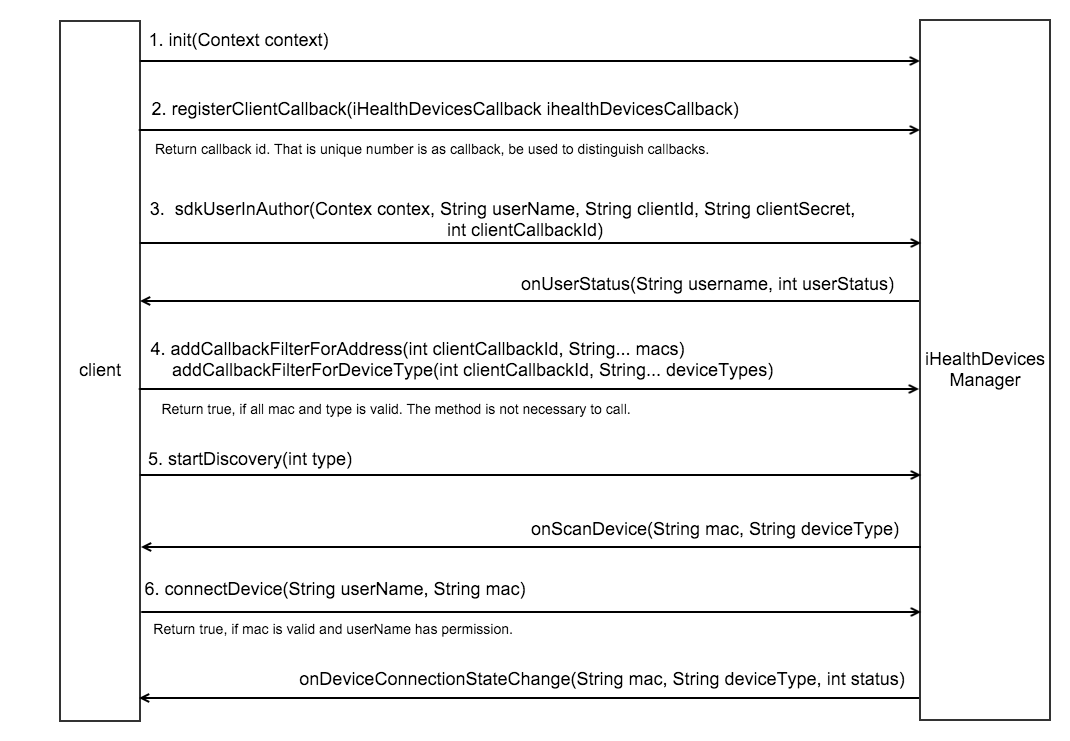
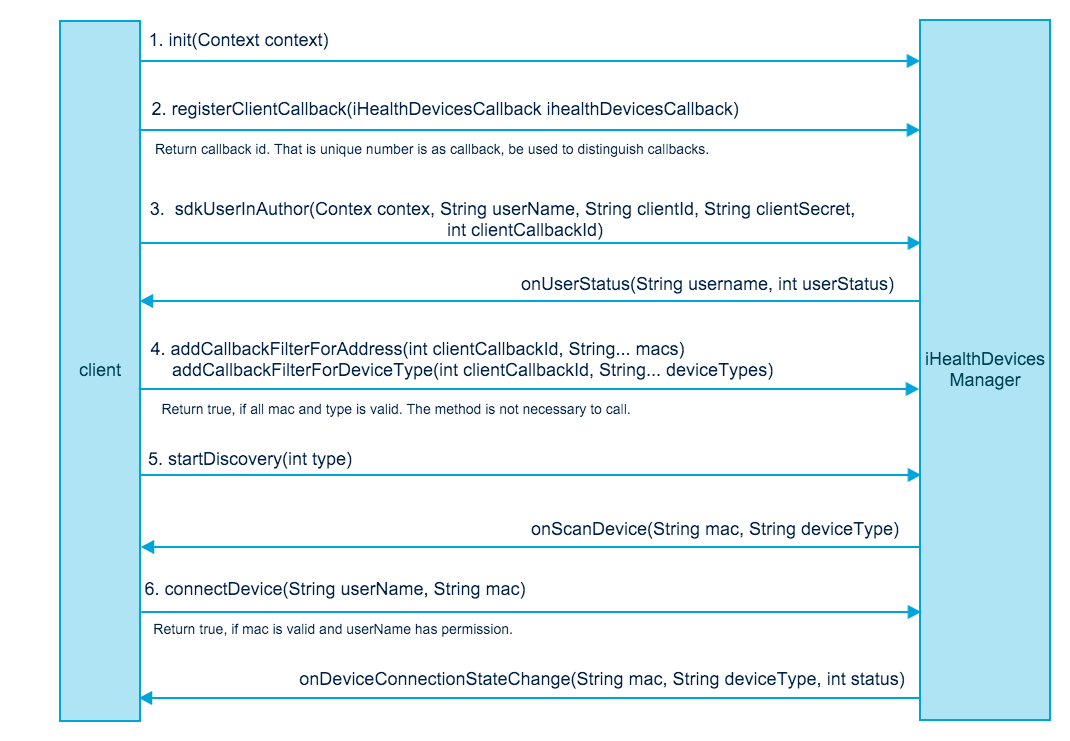
添加对比

Changed region(s): [[0.0308, 0.0, 0.8019, 0.9933], [0.2776, 0.0, 0.9869, 0.9933]]

diff --git a/doc/ReleaseNotes_DeviceManager.md b/doc/ReleaseNotes_DeviceManager.md
@@ -1,0 +1,17 @@
+# Release notes for iHealth Device Manager
+
+## Introducation
+
+These release notes for iHealth Device Manager provide an overview of the release and document.
+
+## iHealth Device Manager 2.0.0
+
+Refactoring the iHealth Device Manager.
+
+### old version
+
+![Registration1](https://github.com/iHealthDeviceLabs/iHealthDeviceLabs-Android/blob/master/public/DeviceManager.png?raw=true)
+
+### New feature in new version
+
+![Registration1](https://github.com/iHealthDeviceLabs/iHealthDeviceLabs-Android/blob/master/public/iHealthDevicesManager.png?raw=true)

diff --git a/doc/Developer_Registration_Application_Instruction.md b/doc/Developer_Registration_Application_Instruction.md
@@ -105,8 +105,3 @@ The page is shown below:
 Active means authorized
 Not Audit means unauthorized
 Apply New API, new app edits are under review
-
-
-
-
-

diff --git a/README.md b/README.md
@@ -30,7 +30,9 @@ iHealth Po3
 ### 用户申请流程
 
 
+
 ### SDK使用流程
+
 
 
 ####
